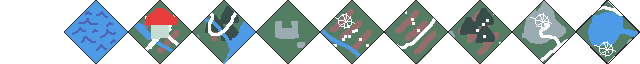
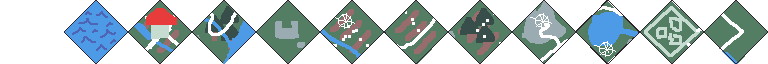
v0.4.271

diff --git a/gamestream_flutter/lib/isometric/ui/dialogs/build_game_dialog_map.dart b/gamestream_flutter/lib/isometric/ui/dialogs/build_game_dialog_map.dart
@@ -63,18 +63,18 @@ void renderMapTile(Canvas canvas, MapTile value){
 final mapTileActive = MapTile(0, 0, MapTiles.Active);
 
 final mapTiles = <MapTile> [
-   MapTile(0, -1, MapTiles.Water),
-   MapTile(-1, -1, MapTiles.Water),
    MapTile(-2, 0, MapTiles.Water),
-   MapTile(0, -1, MapTiles.Water),
-   MapTile(0, 0, MapTiles.Village),
-   MapTile(1, 0, MapTiles.Forest),
+   MapTile(-1, -1, MapTiles.Water),
    MapTile(-1, 0, MapTiles.Farm),
-   MapTile(0, 1, MapTiles.FarmA),
    MapTile(-1, 1, MapTiles.FarmB),
    MapTile(-1, 2, MapTiles.Mountain_Shrine),
    MapTile(-1, 3, MapTiles.Town),
+   MapTile(0, -1, MapTiles.Water),
+   MapTile(0, 0, MapTiles.Village),
+   MapTile(0, 1, MapTiles.FarmA),
    MapTile(0, 2, MapTiles.Lake),
+   MapTile(0, 3, MapTiles.Plains_1),
+   MapTile(1, 0, MapTiles.Forest),
 ];
 
 class MapTile {

diff --git a/bleed-server/bin/engine.dart b/bleed-server/bin/engine.dart
@@ -6,6 +6,7 @@ import 'constants/frames_per_second.dart';
 import 'dark_age/areas/area-farm-a.dart';
 import 'dark_age/areas/area-farm-b.dart';
 import 'dark_age/areas/area-mountain-shrine.dart';
+import 'dark_age/areas/area-plains-1.dart';
 import 'dark_age/areas/area-town.dart';
 import 'dark_age/areas/area_lake.dart';
 import 'dark_age/areas/area_tavern_cellar.dart';
@@ -50,6 +51,7 @@ class Engine {
       GameDarkAgeVillage(),
       AreaFarmA(),
       AreaLake(),
+      AreaPlains1(),
     ];
     final mapRow3 = <DarkAgeArea>[
       GameDarkAgeForest(),

diff --git a/bleed-server/bin/dark_age/dark_age_scenes.dart b/bleed-server/bin/dark_age/dark_age_scenes.dart
@@ -18,6 +18,7 @@ class DarkAgeScenes {
   late Scene mountainShrine;
   late Scene lake;
   late Scene town;
+  late Scene plains1;
 
   Future load() async {
       print('Loading dark age scenes');
@@ -33,6 +34,7 @@ class DarkAgeScenes {
       mountainShrine = await loadScene('mountain-shrine');
       lake = await loadScene('lake');
       town = await loadScene('town');
+      plains1 = await loadScene('plains-1');
       print("Loading dark age scenes finished");
   }
 }

diff --git a/bleed-server/bin/dark_age/areas/area-plains-1.dart b/bleed-server/bin/dark_age/areas/area-plains-1.dart
@@ -1,0 +1,8 @@
+
+import '../../common/map_tiles.dart';
+import '../dark_age_scenes.dart';
+import 'dark_age_area.dart';
+
+class AreaPlains1 extends DarkAgeArea {
+  AreaPlains1() : super(darkAgeScenes.plains1, mapTile: MapTiles.Plains_1);
+}

diff --git a/bleed-common/lib/map_tiles.dart b/bleed-common/lib/map_tiles.dart
@@ -10,4 +10,5 @@ class MapTiles {
   static const Mountain_Shrine = 8;
   static const Lake = 9;
   static const Town = 10;
+  static const Plains_1 = 11;
 }

diff --git a/bleed-server/bin/common/map_tiles.dart b/bleed-server/bin/common/map_tiles.dart
@@ -10,4 +10,5 @@ class MapTiles {
   static const Mountain_Shrine = 8;
   static const Lake = 9;
   static const Town = 10;
+  static const Plains_1 = 11;
 }

diff --git a/bleed-common/lib/version.dart b/bleed-common/lib/version.dart
@@ -1,4 +1,4 @@
-const version = 'v0.4.270';
+const version = 'v0.4.271';
 
 
 

diff --git a/bleed-server/bin/common/version.dart b/bleed-server/bin/common/version.dart
@@ -1,4 +1,4 @@
-const version = 'v0.4.270';
+const version = 'v0.4.271';
 
 
 
